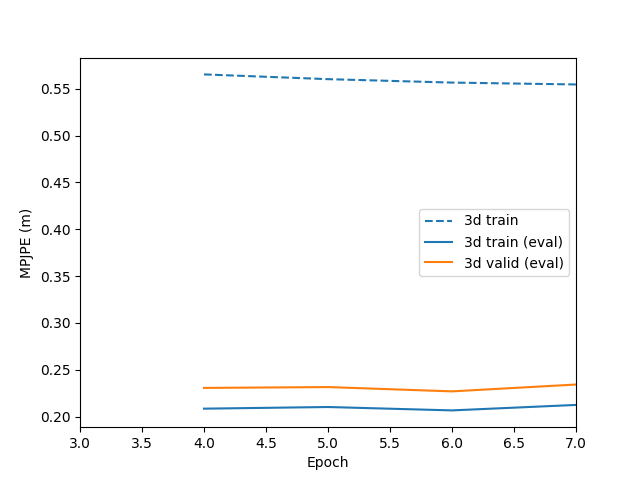
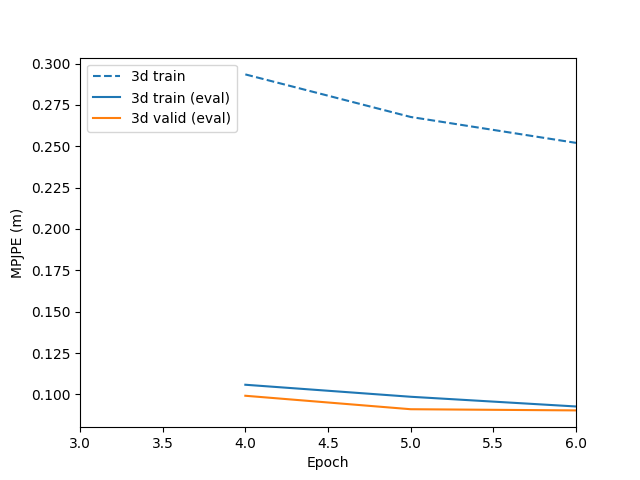
2023.0421.2117

diff --git a/common/model_mixste.py b/common/model_mixste.py
@@ -693,13 +693,13 @@ class  MixSTE2(nn.Module):
 
         self.STEblocks = nn.ModuleList([
             PoolFormerBlock(
-                dim=embed_dim_ratio, mlp_ratio=mlp_ratio, pool_size=1,
+                dim=embed_dim_ratio, mlp_ratio=mlp_ratio, pool_size=3,
                 drop=drop_rate, drop_path=dpr[i], norm_layer=norm_layer)
             for i in range(depth)])
 
         self.TTEblocks = nn.ModuleList([
             PoolFormerBlock(
-                dim=embed_dim, mlp_ratio=mlp_ratio, pool_size=1,
+                dim=embed_dim, mlp_ratio=mlp_ratio, pool_size=3,
                 drop=drop_rate, drop_path=dpr[i], norm_layer=norm_layer, 
                 changedim=False, currentdim=i+1, depth=depth)
             for i in range(depth)])
